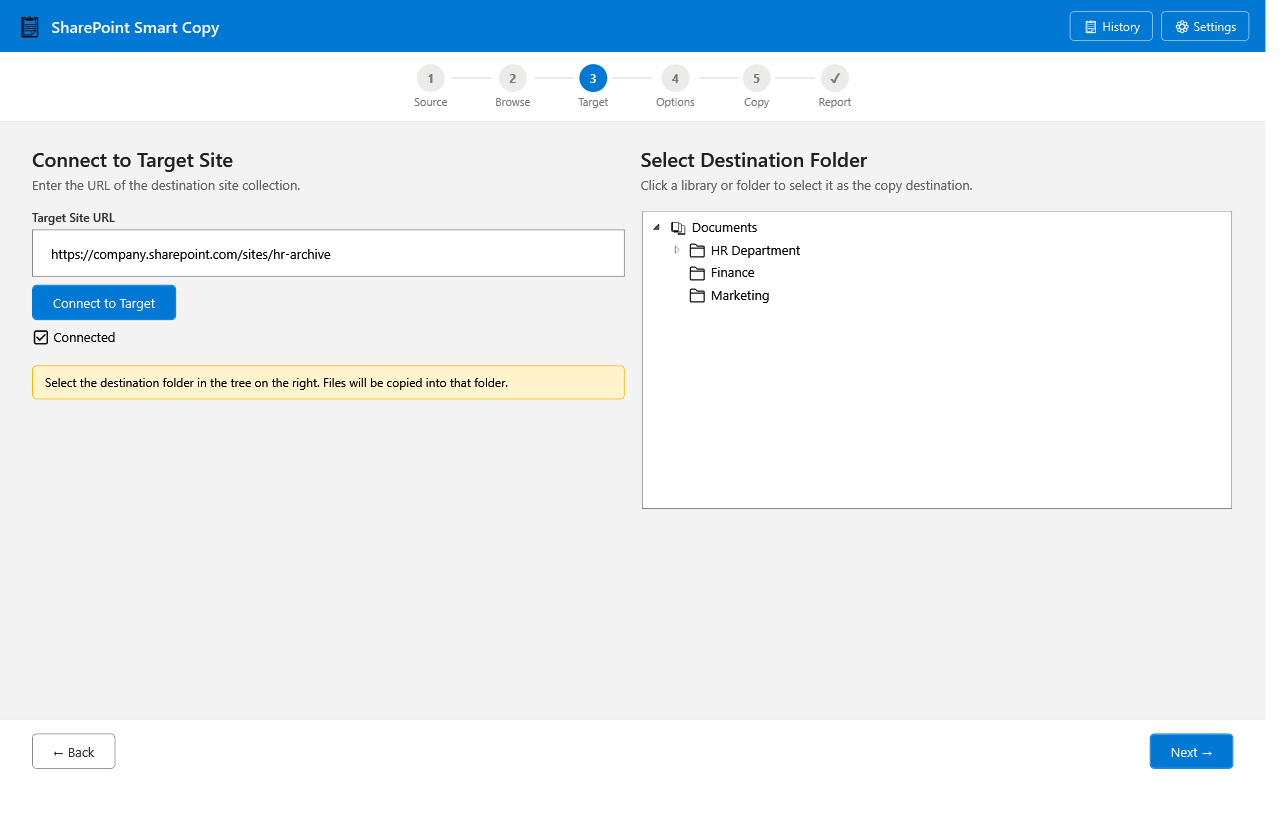
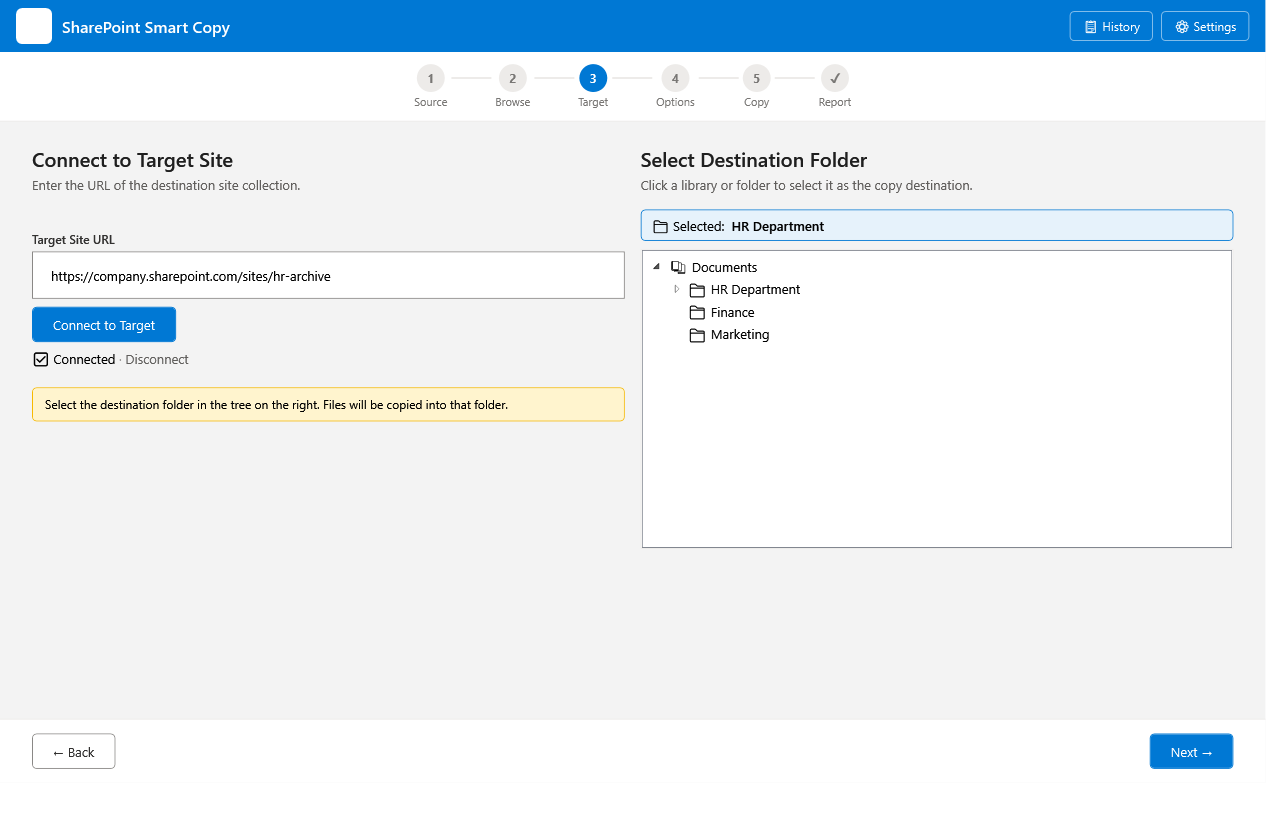
Update screenshots and docs for v1.1
- Retake all 10 screenshots to reflect updated UI (ⓘ tooltips on
  version options, wider options panel, fixed target layout)
- Add Version strategy options table to Copy Options section in both READMEs
- Correct parallel copies range from 1-8 to 1-16

Changed region(s): [[0.0, 0.2439, 0.5, 0.5183], [0.5, 0.2439, 0.9688, 0.4268], [0.0, 0.0, 0.1875, 0.061]]

diff --git a/README.md b/README.md
@@ -18,7 +18,7 @@ SharePoint Smart Copy uses the Microsoft Graph API to migrate content between an
 - **Version limit** — copy only the N most recent versions instead of the full history
 - **Metadata preservation** — Created By, Created Date, Modified By, and Modified Date are applied to each file and folder
 - **Overwrite control** — skip existing files or overwrite them
-- **Parallel transfers** — configurable 1–8 parallel copies for throughput tuning
+- **Parallel transfers** — configurable 1–16 parallel copies for throughput tuning
 - **Live progress** — real-time file status list with elapsed time counter and progress bar
 - **Copy report** — per-file success/fail/skipped summary with source and target paths and version counts
 - **CSV export** — export any report to CSV for sharing or archiving
@@ -88,7 +88,15 @@ Configure how the copy runs before starting:
 | **Copy versions** | Upload the full version history, oldest-first, so history builds naturally in the target. |
 | **Copy all versions** | When version copy is enabled, copies every version. Uncheck to limit to N most recent. |
 | **Latest N versions** | Active when "Copy all versions" is unchecked — copies only the N most recent versions. |
-| **Parallel copies** | Number of simultaneous file transfers (1–8). Higher values are faster but may throttle on large sites. |
+| **Version strategy** | Controls how per-version metadata is handled (see below). |
+| **Parallel copies** | Number of simultaneous file transfers (1–16). Higher values are faster but may throttle on large sites. |
+
+**Version strategy** (visible when Copy versions is on):
+
+| Strategy | Behaviour |
+|---|---|
+| **Preserve metadata for every version** | Every version in the target shows the source's original Modified date and author. Version numbers will be non-sequential (e.g. 2, 4, 6) due to a SharePoint API constraint. |
+| **Keep version numbers sequential** | Versions are numbered 1, 2, 3… with no gaps. Only the latest version's metadata (date and author) is synced; intermediate versions show the copy date in version history. |
 
 The **Copy Preview** table on the right lists every top-level item that will be copied and its destination.
 

diff --git a/SharePointSmartCopy/Docs/README.md b/SharePointSmartCopy/Docs/README.md
@@ -18,7 +18,7 @@ SharePoint Smart Copy uses the Microsoft Graph API to migrate content between an
 - **Version limit** — copy only the N most recent versions instead of the full history
 - **Metadata preservation** — Created By, Created Date, Modified By, and Modified Date are applied to each file and folder
 - **Overwrite control** — skip existing files or overwrite them
-- **Parallel transfers** — configurable 1–8 parallel copies for throughput tuning
+- **Parallel transfers** — configurable 1–16 parallel copies for throughput tuning
 - **Live progress** — real-time file status list with elapsed time counter and progress bar
 - **Copy report** — per-file success/fail/skipped summary with source and target paths and version counts
 - **CSV export** — export any report to CSV for sharing or archiving
@@ -87,7 +87,15 @@ Configure how the copy runs before starting:
 | **Copy versions** | Upload the full version history, oldest-first, so history builds naturally in the target. |
 | **Copy all versions** | When version copy is enabled, copies every version. Uncheck to limit to N most recent. |
 | **Latest N versions** | Active when "Copy all versions" is unchecked — copies only the N most recent versions. |
-| **Parallel copies** | Number of simultaneous file transfers (1–8). Higher values are faster but may throttle on large sites. |
+| **Version strategy** | Controls how per-version metadata is handled (see below). |
+| **Parallel copies** | Number of simultaneous file transfers (1–16). Higher values are faster but may throttle on large sites. |
+
+**Version strategy** (visible when Copy versions is on):
+
+| Strategy | Behaviour |
+|---|---|
+| **Preserve metadata for every version** | Every version in the target shows the source's original Modified date and author. Version numbers will be non-sequential (e.g. 2, 4, 6) due to a SharePoint API constraint. |
+| **Keep version numbers sequential** | Versions are numbered 1, 2, 3… with no gaps. Only the latest version's metadata (date and author) is synced; intermediate versions show the copy date in version history. |
 
 The **Copy Preview** table on the right lists every top-level item that will be copied and its destination.
 
